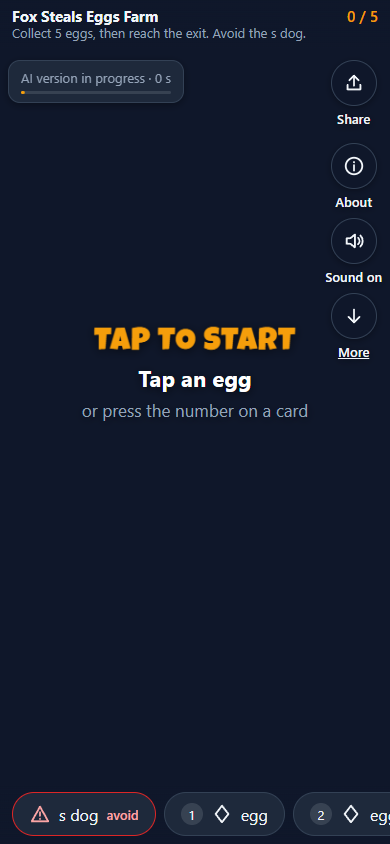
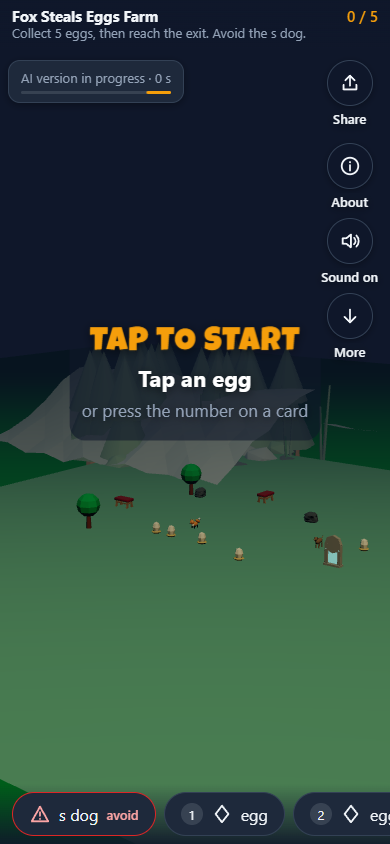
feat(play): full-bleed game with a side action rail
Finishes the wip e257f4bb. Rail captions sit on a dark backing: white text with a shadow was unreadable over a pale sky (About, Sound on, More on the desktop runner). Shots evals/play/p33/T12 re-taken on the final build, plus runner-desktop.png: bar 64 px, scene 1440x836 (under 16:9), rail right, controls line bottom centre, More no longer underlined. Phone runner: bar, rail, Tap to start, controls line; the grid result card leaves the rail free.

implementation-notes:
- play-feed 'ten moves' heap check is flaky on the base f02904fd too (1 of 3 red, 1.47x). Per-move probe, 5 runs each: base and T12 both plateau at 20-25 MB with no growth; the check fails when its warm sample (move 1) lands low. Routed in the plan, test not changed.
- e2e p33-shots, play-phone, play-shell, play-feed 30/30 on this build; tsc clean; vitest src/components/play 188/188.

diff --git a/src/app/play/play.css b/src/app/play/play.css
@@ -301,7 +301,11 @@
   pointer-events: auto;
 }
 
+/* Popisek na podložce: bílý text se stínem na světlém nebi scény nejde přečíst. */
 .play-rail .play-icon-button-caption {
+  padding: 0 var(--p-space-1);
+  border-radius: var(--p-radius-s);
+  background: var(--p-surface-1);
   white-space: nowrap;
 }
 
